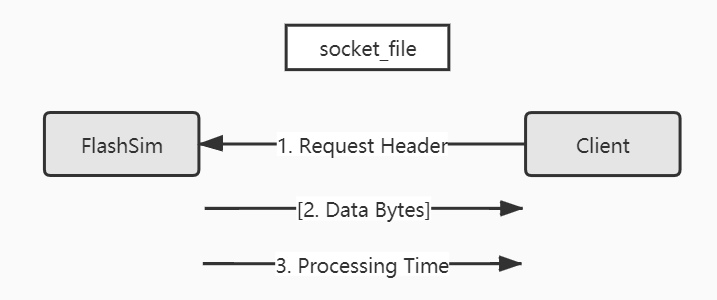
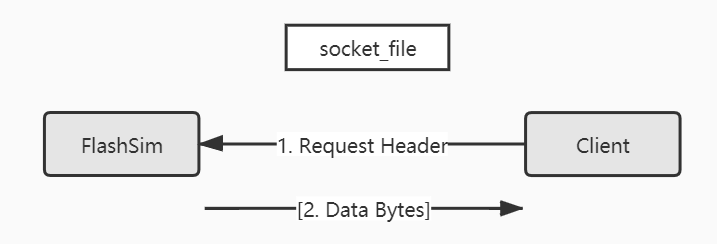
Modified to interactive version

diff --git a/standalone/flashsim.cpp b/standalone/flashsim.cpp
@@ -2,7 +2,7 @@
  * Standalone FlashSim simulator.
  *
  * Made this standalone version to enable non-C++ projects to interact with
- * multiple simulated flash SSDs.
+ * multiple simulated flash SSDs in real-time interactively.
  *
  * Author: Guanzhou Hu <guanzhou.hu@wisc.edu>, 2020.
  */
@@ -15,6 +15,7 @@
 #include <stdlib.h>
 #include <signal.h>
 #include <unistd.h>
+#include <sys/time.h>
 #include <sys/types.h>
 #include <sys/socket.h>
 #include <sys/un.h>
@@ -28,6 +29,8 @@ using namespace ssd;
 static Ssd *ssd_handle;
 static std::string sock_name;
 static int ssock;
+
+static struct timeval boot_time;
 
 
 /**
@@ -74,10 +77,9 @@ struct __attribute__((__packed__)) req_header {
     int           direction : 32;
     unsigned long addr      : 64;
     unsigned int  size      : 32;
-    double        start_time;
 };
 
-static const size_t REQ_HEADER_LENGTH = 24;
+static const size_t REQ_HEADER_LENGTH = 16;
 // Reqeust header message should exactly match this size.
 
 static const int DIR_READ  = 0;
@@ -93,23 +95,23 @@ static const int DIR_WRITE = 1;
  *           or NULL if not passing actual data
  */
 static double
-process_write(ulong addr, uint size, void *buf, double start_time)
+process_write(ulong addr, uint size, void *buf, double start_time_ms)
 {
-    double time_used;
+    double time_used_ms;
 
     if (PAGE_ENABLE_DATA) {
-        time_used = ssd_handle->event_arrive(WRITE, addr / PAGE_SIZE,
-                                             size / PAGE_SIZE,
-                                             start_time, buf);
+        time_used_ms = ssd_handle->event_arrive(WRITE, addr / PAGE_SIZE,
+                                                size / PAGE_SIZE,
+                                                start_time_ms, buf);
     } else {
-        time_used = ssd_handle->event_arrive(WRITE, addr / PAGE_SIZE,
-                                             size / PAGE_SIZE,
-                                             start_time, NULL);
+        time_used_ms = ssd_handle->event_arrive(WRITE, addr / PAGE_SIZE,
+                                                size / PAGE_SIZE,
+                                                start_time_ms, NULL);
     }
 
     // printf("WR: addr %lu of size %u @ %.3lf ... %.10lf\n", addr, size,
-    //        start_time, time_used);
-    return time_used;
+    //        start_time_ms, time_used_ms);
+    return time_used_ms;
 }
 
 /**
@@ -121,17 +123,17 @@ process_write(ulong addr, uint size, void *buf, double start_time)
  * actual data.
  */
 static double
-process_read(ulong addr, uint size, double start_time)
+process_read(ulong addr, uint size, double start_time_ms)
 {
-    double time_used;
+    double time_used_ms;
 
-    time_used = ssd_handle->event_arrive(READ, addr / PAGE_SIZE,
-                                         size / PAGE_SIZE,
-                                         start_time, NULL);
+    time_used_ms = ssd_handle->event_arrive(READ, addr / PAGE_SIZE,
+                                            size / PAGE_SIZE,
+                                            start_time_ms, NULL);
 
     // printf("RD: addr %lu of size %u @ %.3lf ... %.10lf\n", addr, size,
-    //        start_time, time_used);
-    return time_used;
+    //        start_time_ms, time_used_ms);
+    return time_used_ms;
 }
 
 
@@ -188,14 +190,15 @@ request_loop(int csock)
             error("request header wrong length");
         } else {
             struct req_header *header = (struct req_header *) buf;
-            void *data, *resp_data, *resp_time;
+            struct timeval req_time;
+            void *data = NULL, *resp_data;
             uint remainder, size;
-            double time_used;
+            double start_time_ms, time_used_ms;
 
             if (header->size <= 0)
                 error("request header invalid size");
 
-            if (header->addr % PAGE_SIZE != 0)
+            if ((header->addr % PAGE_SIZE) != 0)
                 error("request unaligned logical address");
 
             /**
@@ -207,17 +210,22 @@ request_loop(int csock)
             size = remainder == 0 ? header->size
                                   : header->size + PAGE_SIZE - remainder;
 
+            /** Get request start time in ms after boot time. */
+            gettimeofday(&req_time, NULL);
+            start_time_ms = (double) (req_time.tv_sec - boot_time.tv_sec) * 1000
+                          + (double) (req_time.tv_usec - boot_time.tv_usec) / 1000;
+
             /**
              * If READ, after processing the request, data read from
              * device can be accessed through `Ssd::get_result_buffer()`.
              * We will then send back to client a packet of
              * `header->size` length containing data the client wants,
-             * followed a packet of length 8 containing `time_used`
+             * followed a packet of length 8 containing `time_used_ms`
              * as double.
              */
             if (header->direction == DIR_READ) {
-                time_used = process_read(header->addr, size,
-                                         header->start_time);
+                time_used_ms = process_read(header->addr, size,
+                                            start_time_ms);
 
                 if (PAGE_ENABLE_DATA) {
                     resp_data = malloc(header->size);
@@ -230,21 +238,12 @@ request_loop(int csock)
 
                     free(resp_data);
                 }
-
-                resp_time = malloc(8);
-                memcpy(resp_time, &time_used, sizeof(double));
-
-                wbytes = write(csock, resp_time, 8);
-                if (wbytes != 8)
-                    error("respond time of read failed");
-
-                free(resp_time);
             
             /**
              * If WRITE, we expect the next message from client to be a
              * packet of length exactly `header->size` containing the
              * data to write. We will then send back to client a packet
-             * of length 8 containing `time_used` as double.
+             * of length 8 containing `time_used_ms` as double.
              */
             } else {
                 if (PAGE_ENABLE_DATA) {
@@ -256,21 +255,17 @@ request_loop(int csock)
                         error("client data to write wrong length");
                 }
 
-                time_used = process_write(header->addr, size, data,
-                                          header->start_time);
+                time_used_ms = process_write(header->addr, size, data,
+                                             start_time_ms);
 
                 if (PAGE_ENABLE_DATA)
                     free(data);
-
-                resp_time = malloc(8);
-                memcpy(resp_time, &time_used, sizeof(double));
-
-                wbytes = write(csock, resp_time, sizeof(resp_time));
-                if (wbytes != 8)
-                    error("respond to write failed");
-
-                free(resp_time);
             }
+
+            /** Sleep for processing time of this request. */
+            if(time_used_ms <= 0)
+                error("negative processing time");
+            usleep((int) (time_used_ms * 1000));
         }
     }
 }
@@ -292,8 +287,7 @@ main(int argc, char *argv[])
         load_config(argv[2]);
 
     /** Check that request header struct compiles to correct size. */
-    if (sizeof(struct req_header) != REQ_HEADER_LENGTH
-        || sizeof(double) != 8)
+    if (sizeof(struct req_header) != REQ_HEADER_LENGTH)
         error("request header length incorrectly compiled");
 
     std::cout << "=== SSD Device Configuration ===" << std::endl;
@@ -307,6 +301,8 @@ main(int argc, char *argv[])
     /** Open server socket, bind, & listen. */
     prepare_socket();
     std::cout << "SSD simulator BOOTED" << std::endl;
+
+    gettimeofday(&boot_time, NULL);
 
     /** Register Ctrl+C handler. */
     sigint_handler.sa_handler = clean_up;

diff --git a/standalone/client.cpp b/standalone/client.cpp
@@ -43,10 +43,9 @@ struct __attribute__((__packed__)) req_header {
     int           direction : 32;
     unsigned long addr      : 64;
     unsigned int  size      : 32;
-    double        start_time;
 };
 
-static const size_t REQ_HEADER_LENGTH = 24;
+static const size_t REQ_HEADER_LENGTH = 16;
 
 static const int DIR_READ  = 0;
 static const int DIR_WRITE = 1;
@@ -95,16 +94,13 @@ main(int argc, char *argv[])
     /** Send a write request. */
     {
         struct req_header header;
-        int rbytes, wbytes;
+        int wbytes;
         char data[17] = "String-of-len-16";
-        char time_used_buf[8];
-        double time_used;
 
         // Request header.
         header.direction = DIR_WRITE;
         header.addr = 8192;
         header.size = 17;
-        header.start_time = 3200.28;
 
         wbytes = write(ssock, &header, REQ_HEADER_LENGTH);
         if (wbytes != REQ_HEADER_LENGTH)
@@ -116,14 +112,7 @@ main(int argc, char *argv[])
         if (wbytes != (int) header.size)
             error("write request data send failed");
 
-        // Processing time respond.
-        rbytes = read(ssock, time_used_buf, 8);
-        if (rbytes != 8)
-            error("write processing time recv failed");
-
-        time_used = *((double *) time_used_buf);
-        printf("Written \"%s\" to SSD, took %.10lf ms\n",
-               data, time_used);
+        printf("Written \"%s\" to SSD\n", data);
     }
 
     /** Send a read request to read that out. */
@@ -131,14 +120,11 @@ main(int argc, char *argv[])
         struct req_header header;
         int rbytes, wbytes;
         char data[17] = "";
-        char time_used_buf[8];
-        double time_used;
 
         // Request header.
         header.direction = DIR_READ;
         header.addr = 8192;
         header.size = 17;
-        header.start_time = 3471.32;
 
         wbytes = write(ssock, &header, REQ_HEADER_LENGTH);
         if (wbytes != REQ_HEADER_LENGTH)
@@ -150,13 +136,6 @@ main(int argc, char *argv[])
         if (rbytes != (int) header.size)
             error("read request data recv failed");
 
-        // Processing time respond.
-        rbytes = read(ssock, time_used_buf, 8);
-        if (rbytes != 8)
-            error("read processing time recv failed");
-
-        time_used = *((double *) time_used_buf);
-        printf("Read \"%s\" from SSD, took %.10lf ms\n",
-               data, time_used);
+        printf("Read \"%s\" from SSD\n", data);
     }
 }

diff --git a/benchmark/la-bench.cpp b/benchmark/la-bench.cpp
@@ -45,10 +45,9 @@ struct __attribute__((__packed__)) req_header {
     int           direction : 32;
     unsigned long addr      : 64;
     unsigned int  size      : 32;
-    double        start_time;
 };
 
-static const size_t REQ_HEADER_LENGTH = 24;
+static const size_t REQ_HEADER_LENGTH = 16;
 
 static const int DIR_READ  = 0;
 static const int DIR_WRITE = 1;

diff --git a/README.md b/README.md
@@ -1,6 +1,6 @@
 # FlashSim Event-Driven SSD Simulator
 
-This is Guanzhou's extended version of the FlashSim event-driven flash SSD simulator.
+This is Guanzhou's extended version of the FlashSim event-driven flash SSD simulator. Real-time and interactive. Simulates request latency synchronously.
 
 
 ## Installation
@@ -103,6 +103,8 @@ $ ./client simssd
 # The simulator won't exit until Ctrl+C in shell 1.
 ```
 
+> For the standalone version, unit of time in the configuration file must be in milliseconds (ms).
+
 Please reference if you use for your research:
 
 ```bibtex
@@ -132,11 +134,11 @@ Messages format details:
 
 - Request Header:
   ```text
-  +-----------+-----------------+--------------+------------+
-  | Direction | Logical address |    Size      | Start time |
-  |    int    |  unsigned long  | unsigned int |   double   |  = 24 bytes
-  |  4 bytes  |     8 bytes     |   4 bytes    |  8 bytes   |
-  +-----------+-----------------+--------------+------------+
+  +-----------+-----------------+--------------+
+  | Direction | Logical address |    Size      |
+  |    int    |  unsigned long  | unsigned int |  = 16 bytes
+  |  4 bytes  |     8 bytes     |   4 bytes    |
+  +-----------+-----------------+--------------+
   ```
   where `Direction` can be:
     - `0` for READ
@@ -150,14 +152,6 @@ Messages format details:
   +------------------------------+
   ```
   If passing actual data, length of each request CANNOT EXCEED `65516` bytes, as this is the message size limit of UNIX-domain sockets.
-- Processing Time:
-  ```text
-  +-------------------------+
-  | Processing time elapsed |
-  |          double         |  = 8 bytes
-  |         8 bytes         |
-  +-------------------------+
-  ```
 
 
 ## FTL Contribution From Matias
